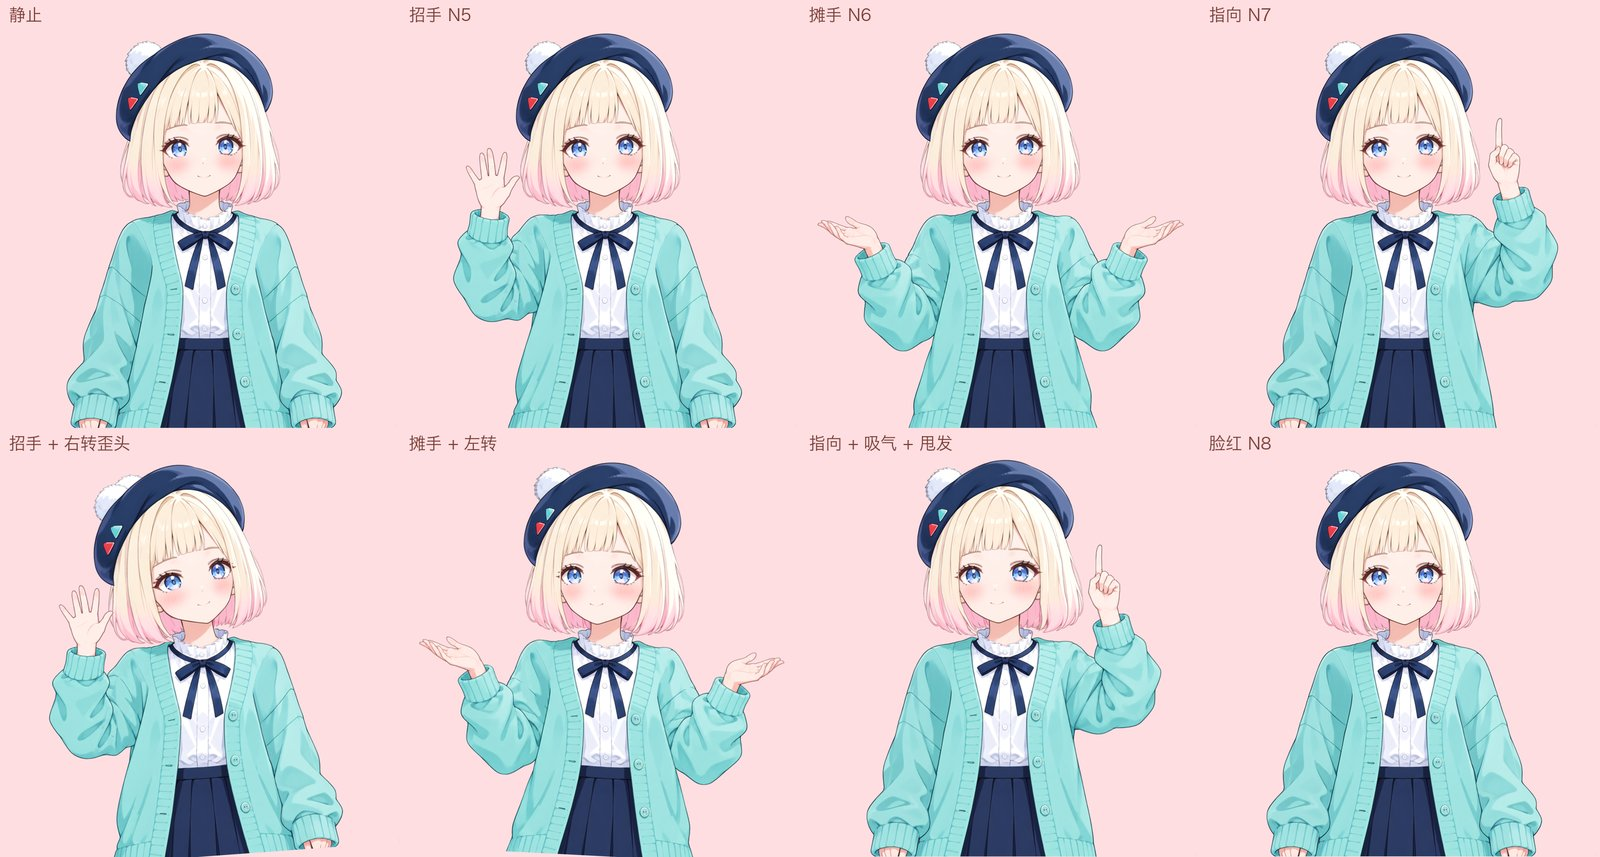
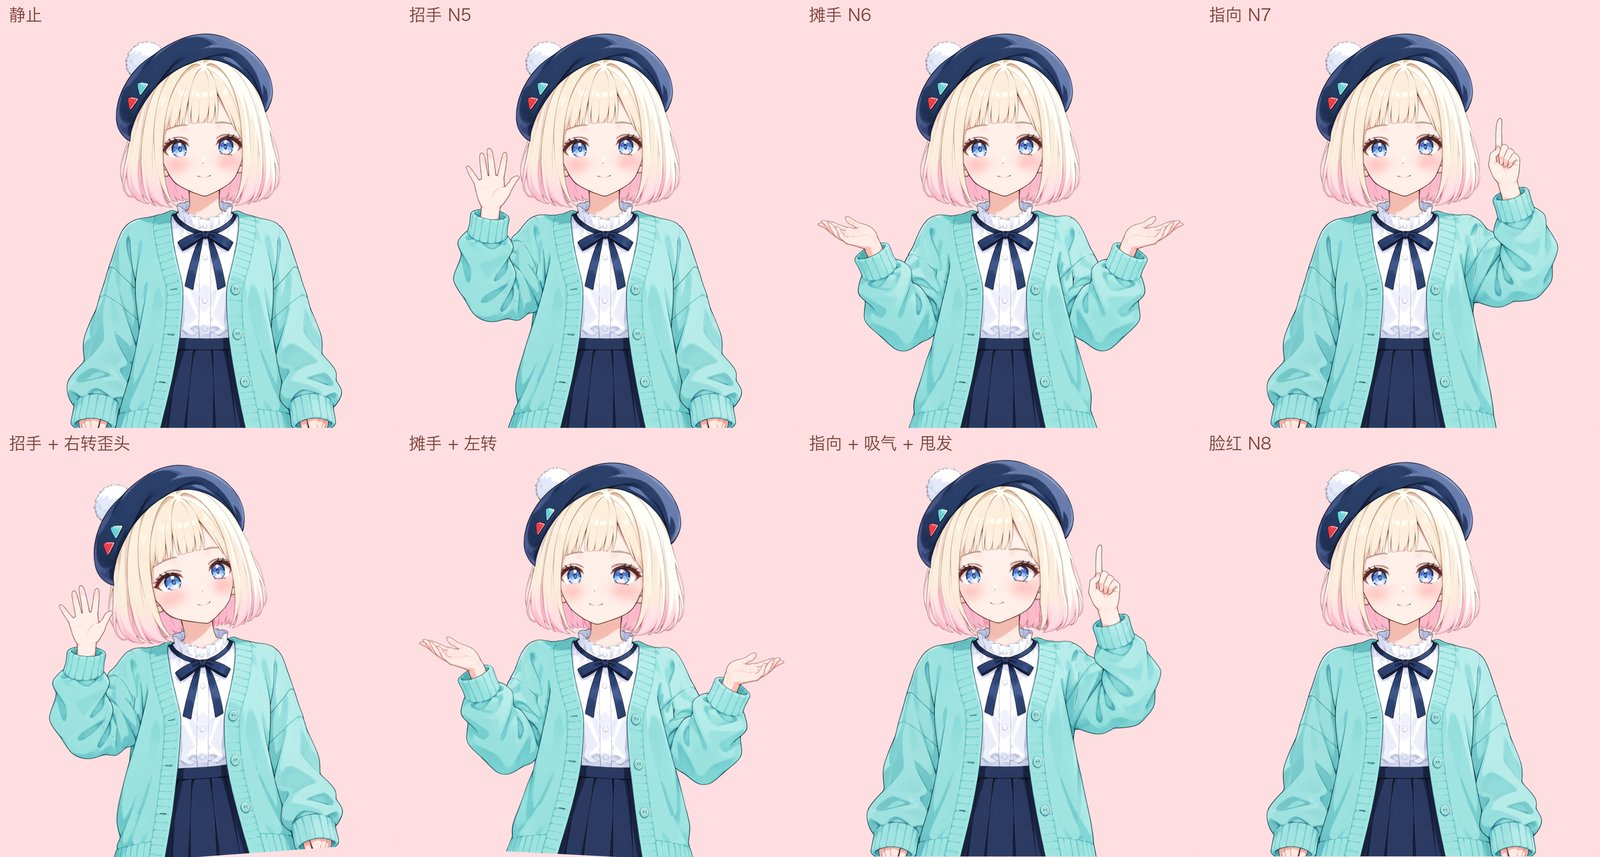
衣服按原画定外套和袖子的上下；图层改过后手势不用重出变体
- seethrough split：外套（topwear）和袖子（handwear）每块重叠处，看哪种叠法更接近原画定上下。毛线帽外套的领尖、衣襟白边原来被袖子盖住；四个角色的肩膀都改成外套在上，只有衣服层变了
- extras：图层改过的地方，变体改了什么按 R0-rest.png 算，画面用现在的图层，开手势时肩膀不会变回旧样子；图层没改时结果不变
- 规则 105、106；示例图用新的贝雷帽重出

diff --git a/rigkit/seethrough.py b/rigkit/seethrough.py
@@ -70,6 +70,7 @@ EXPRESSIONS = {'D5-eyes-closed': 'Eye_Closed', 'D6-eyes-smile': 'Eye_Smile'}
 HEAD_TAGS = ['headwear', 'face', 'irides', 'eyebrow', 'eyewhite', 'eyelash', 'eyewear', 'ears', 'earwear', 'nose', 'mouth']
 SPILL, SPILL_AREA = 8, 200    # px beyond our part (or what hides it) that See-through may run on; least area cut
 MISS, MISS_WIDTH, MISS_AREA = 60, 8, 300   # off from the art by this much, this wide (px radius) and large: ours
+SLEEVE_MARGIN = 5             # topwear back on top of a sleeve when it is closer to the art by this much (0-255)
 
 
 def st_layer(folder, name, size, pad_top):
@@ -110,11 +111,48 @@ def offset_field(diff, known, sigma=(6., 24., 80.)):
     return out
 
 
-def st_shapes(S, R, H, W, over_locks=None, parts=ST_PARTS):
+def sleeves_under(S, B, hidden, log=print):
+    """Where See-through's topwear and a sleeve (handwear) overlap, the one whose
+    drawing matches the art there lies on top, piece by piece: the sleeves go
+    on top of the topwear by default, and on 毛线帽 they covered the jacket's
+    collar points and the white trim down its front (all four characters match
+    the art better with the topwear on top at the shoulders, the sleeves on top
+    lower down by the wrists). Only what shows at rest decides (hidden: covered
+    by our layers above the clothes). Returns where the topwear goes back on
+    top, with the sleeve's soft edge round each piece, or None."""
+    if 'topwear' not in S:
+        return None
+    top = S['topwear']
+    back = np.zeros(top[1].shape, bool)
+    for h in ('handwear-r', 'handwear-l'):
+        if h not in S:
+            continue
+        for c in components((top[1] > .5) & (S[h][1] > .5), 30):
+            seen = c & ~hidden
+            if seen.sum() < 30:
+                continue
+            off_top = np.abs(top[0]-B).max(2)[seen].mean()
+            off_sleeve = np.abs(S[h][0]-B).max(2)[seen].mean()
+            if off_top+SLEEVE_MARGIN < off_sleeve:
+                back |= dilate(c, 3)
+                log(f'  Body：{h} 和 topwear 重叠的 {int(c.sum())} px 改成 topwear 在上'
+                    f'（和原画差 {off_top:.0f}，袖子在上时 {off_sleeve:.0f}）')
+    return back if back.any() else None
+
+
+def st_shapes(S, R, H, W, over_locks=None, parts=ST_PARTS, topwear_back=None):
     """Our layers cut from See-through's: the big parts, the front hair split into
     our locks, and the eyes and brows (shape and See-through's colour).
-    over_locks: what our split draws above all the locks (the hat)."""
-    shapes = {k: over([S[n] for n in v if n in S]) for k, v in parts.items() if any(n in S for n in v)}
+    over_locks: what our split draws above all the locks (the hat).
+    topwear_back: where the topwear goes back on top of the sleeves (sleeves_under)."""
+    def stack(v):
+        layers = [S[n] for n in v if n in S]
+        if topwear_back is not None and 'topwear' in v and 'topwear' in S:
+            at = max(i for i, n in enumerate([n for n in v if n in S]) if n == 'topwear' or n.startswith('handwear'))
+            rgb, a = S['topwear']
+            layers.insert(at+1, (rgb, (a*topwear_back).astype(np.float32)))
+        return over(layers)
+    shapes = {k: stack(v) for k, v in parts.items() if any(n in S for n in v)}
     if 'Neck' in R and 'Body' in R:
         # See-through's clothes run on over the neck seen in the collar opening
         # (it puts the neck under them); our body has the opening, as our split had it
@@ -296,7 +334,12 @@ def plan_as_drawn(art, base_layers, out, pad_top=0, log=print):
     locks_at = [names.index(n) for n in LOCKS if n in names]
     hat = [np.minimum(R[n][1], over([S[x] for x in parts[n] if x in S])[1]) for n in names[max(locks_at)+1:]
            if n in parts and any(x in S for x in parts[n])] if locks_at else []
-    shapes, fshapes = st_shapes(S, R, H, W, np.maximum.reduce(hat) if hat else None, parts)
+    above = np.zeros((H, W), np.float32)               # our layers over the clothes at rest
+    for l in layout[names.index('Body')+1:] if 'Body' in names else []:
+        if l['visible'] and l['name'] in R:
+            above = R[l['name']][1]+(1-R[l['name']][1])*above
+    back = sleeves_under(S, B, above > .9, log)
+    shapes, fshapes = st_shapes(S, R, H, W, np.maximum.reduce(hat) if hat else None, parts, back)
     shapes.update({n: shape for _, n, shape in extra})
     # the closed mouth and the nose are ours, as drawn in the art: See-through
     # draws them thinner and lopsided, with a faint haze over the whole canvas

diff --git a/rigkit/extras.py b/rigkit/extras.py
@@ -18,6 +18,9 @@ The edits are made from the model at rest, not from the art, so they are drawn
 the way the layers look (See-through's softer rendering when its layers are
 used), and switching a gesture on does not change the style of the body.
 A check sheet (手势和脸红.png) shows each edit beside the model with it on.
+When the layers have changed since R0-rest was written (the clothes
+reordered), a run measures what each edit changed against R0-rest there, and
+takes the rest of the pose from the layers as they are now: no new edits.
 """
 from pathlib import Path
 import argparse, json
@@ -183,9 +186,19 @@ def run(art, folder, log=print):
         log(f'已写出 {rest_png.name}（图层静止合成）。下一步：python -m rigkit.variants {art} {" ".join(EDITS)}')
         return
     old = load(rest_png, pad_top)
-    drift = np.abs(old-rest).max(2)[pad_top:].mean()
-    if drift > 1.5:
-        log(f'  注意：图层和 {REST}.png 不一致（平均差 {drift:.1f}），图层改过时删掉 {REST}.png 和这几张变体重出')
+    off = np.abs(old-rest).max(2)[pad_top:] > 8
+    # the layers changed since the edits were made (the clothes reordered): what
+    # an edit changed is measured against R0-rest, which it was made from; the
+    # rest of the pose is the body as it is now. Against the new rest, the
+    # parts that changed would count as redrawn by every edit, and a gesture
+    # would bring the old drawing of them back
+    ref = rest
+    if off.sum() > 500:
+        changed_since = np.zeros(rest.shape[:2], bool)
+        changed_since[pad_top:] = off
+        changed_since = dilate(changed_since, 4)
+        ref = np.where(changed_since[..., None], old, rest)
+        log(f'  图层和 {REST}.png 有 {int(off.sum())} px 不同：那里变体改了哪里按 {REST}.png 算，画面用现在的图层')
 
     group = {l['name']: l['group'] for l in doc['layers']}
     # a dangle stays on top of every pose with its own swing
@@ -207,7 +220,7 @@ def run(art, folder, log=print):
         if not (art/f'{edit_name}.png').exists():
             continue
         v, drift = edit(art/f'{edit_name}.png', rest, pad_top)
-        rgb, a, changed = pose_layer(v, rest, figure, body_flat, allowed, reach, hair_holes)
+        rgb, a, changed = pose_layer(v, ref, figure, body_flat, allowed, reach, hair_holes)
         save(folder, doc, layer, 'pose', rgb, a, after=body+[p for p in POSES.values()])
         L[layer] = (rgb, a)
         model, _ = over(base[:first]+[layer]+base[last+1:], L)
@@ -220,7 +233,7 @@ def run(art, folder, log=print):
         _, on_face = over(base[i+1:], L)
         face_shows = erode((L['Face_Skin'][1] > .5) & (on_face < .02), 2)
         cx = _centre_x(L, ['Nose', 'Mouth_Closed', 'Face_Skin'])
-        res = flush_layers(v, rest, L['Face_Skin'][1], face_shows, cx)
+        res = flush_layers(v, ref, L['Face_Skin'][1], face_shows, cx)
         if res is None:
             log(f'  {BLUSH}：脸上没有找到变化，没有生成脸红层')
         else:
